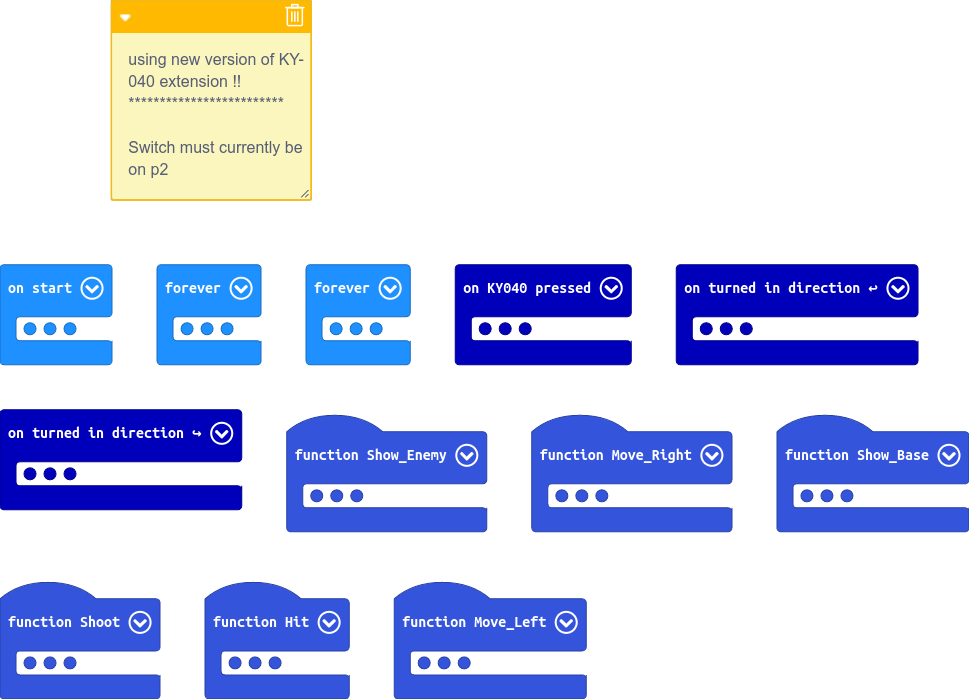
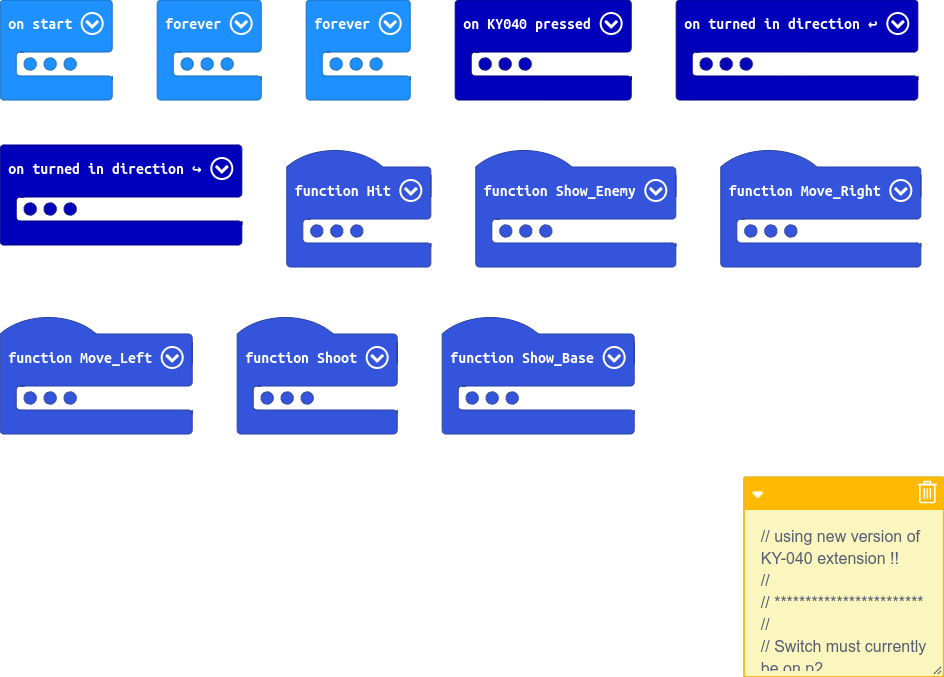
update comment

diff --git a/main.ts b/main.ts
@@ -1,31 +1,57 @@
 /**
- * using new version of KY-040 extension !!
+ * // using new version of KY-040 extension !!
  * 
- * *************************
+ * // 
  * 
- * Switch must currently be on p2
+ * // ************************
  * 
- * reconnected callimatrix so that = P0
+ * // 
  * 
- * have asked herr klein if can have user select Pin?
+ * // Switch must currently be on p2
  * 
- * debouncer works fine - just need to only allow 1 shot - extra pushes are buffered
- 
- * TO DO
- *
- * ----------
- *
- * ADD SCORING
- *
- * add sound
- *
- * enemy movement
- *
- * enemy time limit
- *
- * bonus ships?
- *
- * 2 player / 2 bits?
+ * // 
+ * 
+ * // reconnected callimatrix so that = P0
+ * 
+ * // 
+ * 
+ * // have asked herr klein if can have user select Pin?
+ * 
+ * // 
+ * 
+ * // debouncer works fine - just need to only allow 1 shot - extra pushes are buffered
+ * 
+ * // 
+ * 
+ * // TO DO
+ * 
+ * // 
+ * 
+ * // ----------
+ * 
+ * // 
+ * 
+ * // ADD SCORING
+ * 
+ * // 
+ * 
+ * // add sound
+ * 
+ * // 
+ * 
+ * // enemy movement
+ * 
+ * // 
+ * 
+ * // enemy time limit
+ * 
+ * // 
+ * 
+ * // bonus ships?
+ * 
+ * // 
+ * 
+ * // 2 player / 2 bits?
  */
 function Show_Base () {
     callimatrix.SetMatrixColorbright(0x000000, 0, Pos + 1, cbrightness.hp6)
@@ -37,21 +63,6 @@ function Show_Enemy () {
     callimatrix.SetMatrixColorbright(0xff0000, 7, Enemy)
     callimatrix.callimatrix_show()
 }
-// TO DO
-// 
-// ----------
-// 
-// ADD SCORING
-// 
-// add sound
-// 
-// enemy movement
-// 
-// enemy time limit
-// 
-// bonus ships?
-// 
-// 2 player / 2 bits?
 KY040.onPressEvent(function () {
     Shoot()
 })

diff --git a/main.py b/main.py
@@ -1,0 +1,123 @@
+"""
+
+using new version of KY-040 extension !!
+
+*************************
+
+Switch must currently be on p2
+
+reconnected callimatrix so that = P0
+
+have asked herr klein if can have user select Pin?
+
+debouncer works fine - just need to only allow 1 shot - extra pushes are buffered
+
+TO DO
+
+----------
+
+ADD SCORING
+
+add sound
+
+enemy movement
+
+enemy time limit
+
+bonus ships?
+
+2 player / 2 bits?
+
+"""
+def Show_Base():
+    callimatrix.set_matrix_colorbright(0x000000, 0, Pos + 1, cbrightness.HP6)
+    callimatrix.set_matrix_colorbright(0x000000, 0, Pos - 1, cbrightness.HP6)
+    callimatrix.set_matrix_colorbright(0x00ff00, 0, Pos, cbrightness.HP6)
+    callimatrix.callimatrix_show()
+def Show_Enemy():
+    callimatrix.set_matrix_colorbright(0xff0000, 7, Enemy)
+    callimatrix.callimatrix_show()
+# TO DO
+# 
+# ----------
+# 
+# ADD SCORING
+# 
+# add sound
+# 
+# enemy movement
+# 
+# enemy time limit
+# 
+# bonus ships?
+# 
+# 2 player / 2 bits?
+
+def on_press_event():
+    Shoot()
+KY040.on_press_event(on_press_event)
+
+def Shoot():
+    basic.show_icon(IconNames.SWORD)
+    for index in range(8):
+        callimatrix.set_matrix_colorbright(0xffff00, index + 1, Pos, cbrightness.HP2)
+        callimatrix.callimatrix_show()
+        basic.pause(500)
+        if Pos == Enemy and index == 7:
+            Hit()
+            break
+        callimatrix.set_matrix_colorbright(0x000000, index + 1, Pos, cbrightness.HP2)
+        callimatrix.callimatrix_show()
+    basic.pause(200)
+    basic.clear_screen()
+
+def on_turned_clockwise():
+    Move_Left()
+KY040.on_turned(direction.CLOCKWISE, on_turned_clockwise)
+
+def Move_Right():
+    global Pos
+    Pos += -1
+    if Pos <= 0:
+        Pos = 0
+    basic.pause(25)
+    basic.clear_screen()
+def Hit():
+    global Enemy
+    basic.show_icon(IconNames.ANGRY)
+    basic.pause(200)
+    callimatrix.set_matrix_colorbright(0x000000, 7, Enemy)
+    callimatrix.callimatrix_show()
+    Enemy = randint(0, 7)
+    basic.clear_screen()
+
+def on_turned_counterclockwise():
+    Move_Right()
+KY040.on_turned(direction.COUNTERCLOCKWISE, on_turned_counterclockwise)
+
+def Move_Left():
+    global Pos
+    Pos += 1
+    if Pos >= 7:
+        Pos = 7
+    basic.pause(25)
+    basic.clear_screen()
+Enemy = 0
+Pos = 0
+basic.show_icon(IconNames.GHOST)
+KY040.set_ky040(DigitalPin.P1, DigitalPin.P15, DigitalPin.P2)
+callimatrix.init_neo_matrix(DigitalPin.P0)
+callimatrix.callimatrix_del()
+Pos = 0
+callimatrix.set_matrix_colorbright(0x00ff00, 0, 0, cbrightness.HP25)
+callimatrix.callimatrix_show()
+Enemy = randint(0, 7)
+basic.pause(1000)
+
+def on_forever():
+    Show_Enemy()
+basic.forever(on_forever)
+
+def on_forever2():
+    Show_Base()
+basic.forever(on_forever2)
